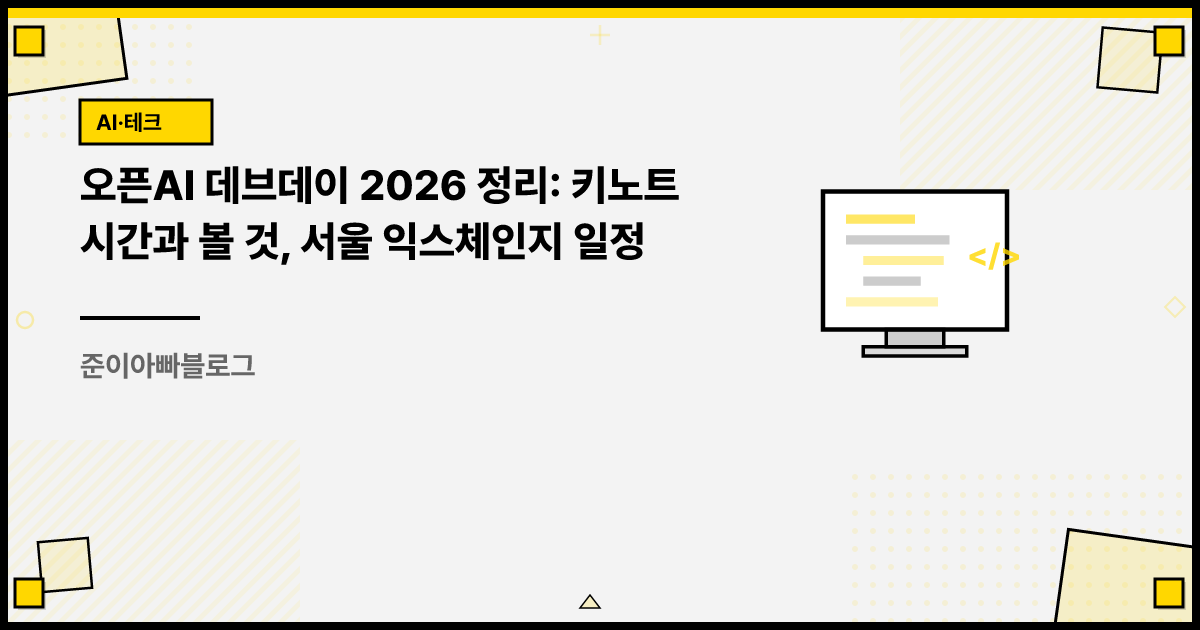
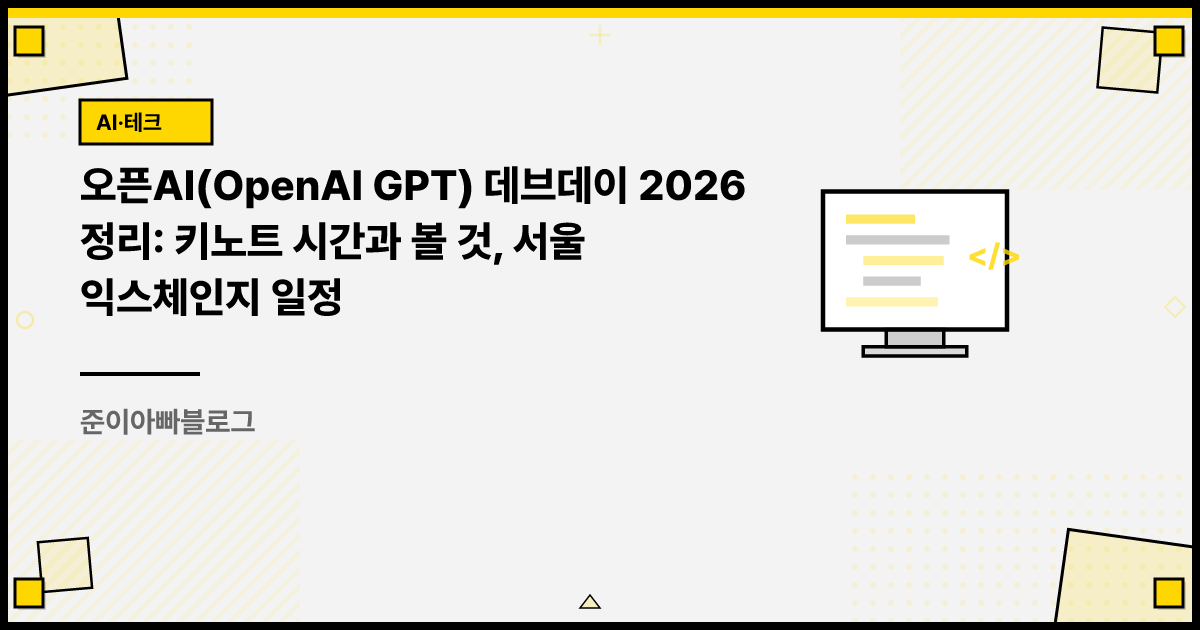
데브데이 2026 글 제목에 OpenAI GPT 영문 병기
검색어가 오픈AI와 OpenAI, GPT로 나뉘어 H1과 metaTitle에 영문을 병기하고 OG 이미지를 다시 생성

Claude-Session: https://claude.ai/code/session_01WxfXyoWNnYCHv2xunXLThY

Changed region(s): [[0.0617, 0.2413, 0.6167, 0.5127], [0.0617, 0.6333, 0.2158, 0.6937], [0.0617, 0.5429, 0.2158, 0.6032]]

diff --git a/content/insights/openai-devday-2026-keynote.md b/content/insights/openai-devday-2026-keynote.md
@@ -1,10 +1,10 @@
 ---
 slug: openai-devday-2026-keynote
-title: '오픈AI 데브데이 2026 정리: 키노트 시간과 볼 것, 서울 익스체인지 일정'
+title: '오픈AI(OpenAI GPT) 데브데이 2026 정리: 키노트 시간과 볼 것, 서울 익스체인지 일정'
 excerpt: >-
   오픈AI 데브데이 2026은 9월 29일 샌프란시스코에서 열리고 오프닝 키노트는 한국 시각 9월 30일 새벽 2시입니다. 기업 API
-  지출에서 오픈AI가 앤스로픽에 밀린 뒤 열리는 첫 데브데이라, 무엇을 먼저 꺼내는지가 내년 경쟁 구도를 정합니다. 확정된 일정과 발표 전에 나온
-  신호, 숫자와 커뮤니티로 본 현재 구도, 예상되는 발표, 서울을 포함한 익스체인지 8개 도시 일정을 정리했습니다.
+  지출에서 오픈AI가 앤스로픽에 밀린 뒤 열리는 첫 데브데이라, 무엇을 먼저 꺼내는지가 내년 경쟁 구도를 정합니다. 확정된 일정과 발표 전에
+  나온 신호, 숫자와 커뮤니티로 본 현재 구도, 예상되는 발표, 서울을 포함한 익스체인지 8개 도시 일정을 정리했습니다.
 category: AI_TECH
 tags:
   - AI
@@ -22,10 +22,10 @@ highlights:
   - >-
     발표 목록을 받아 적기보다 순서를 봅니다. 코딩과 에이전트 도구가 앞머리에 오면 기업 시장을 되찾으러 가는 쪽이고, 소비자 앱이 앞에
     오면 사용자 수로 버티는 쪽입니다.
-metaTitle: '오픈AI 데브데이 2026 키노트 시간과 볼 것, 서울 일정 정리'
+metaTitle: '오픈AI(OpenAI GPT) 데브데이 2026 키노트 시간과 볼 것, 서울 일정 정리'
 metaDescription: >-
-  오픈AI 데브데이 2026은 9월 29일 열리고 키노트는 한국 시각 9월 30일 새벽 2시입니다. 확정 일정과 제품 총괄이 남긴 예고, 기업 API
-  점유율로 본 현재 구도, 예상되는 발표, 서울 익스체인지 10월 22일 일정을 정리했습니다.
+  오픈AI 데브데이 2026은 9월 29일 열리고 키노트는 한국 시각 9월 30일 새벽 2시입니다. 확정 일정과 제품 총괄이 남긴 예고, 기업
+  API 점유율로 본 현재 구도, 예상되는 발표, 서울 익스체인지 10월 22일 일정을 정리했습니다.
 ogDescription: '기업 API 지출에서 밀린 뒤 열리는 첫 데브데이입니다. 확정 일정과 한국 시각, 무엇을 확인할지, 서울 익스체인지 일정을 정리했습니다.'
 ogImage: /og/openai-devday-2026-keynote.png
 quiz:
